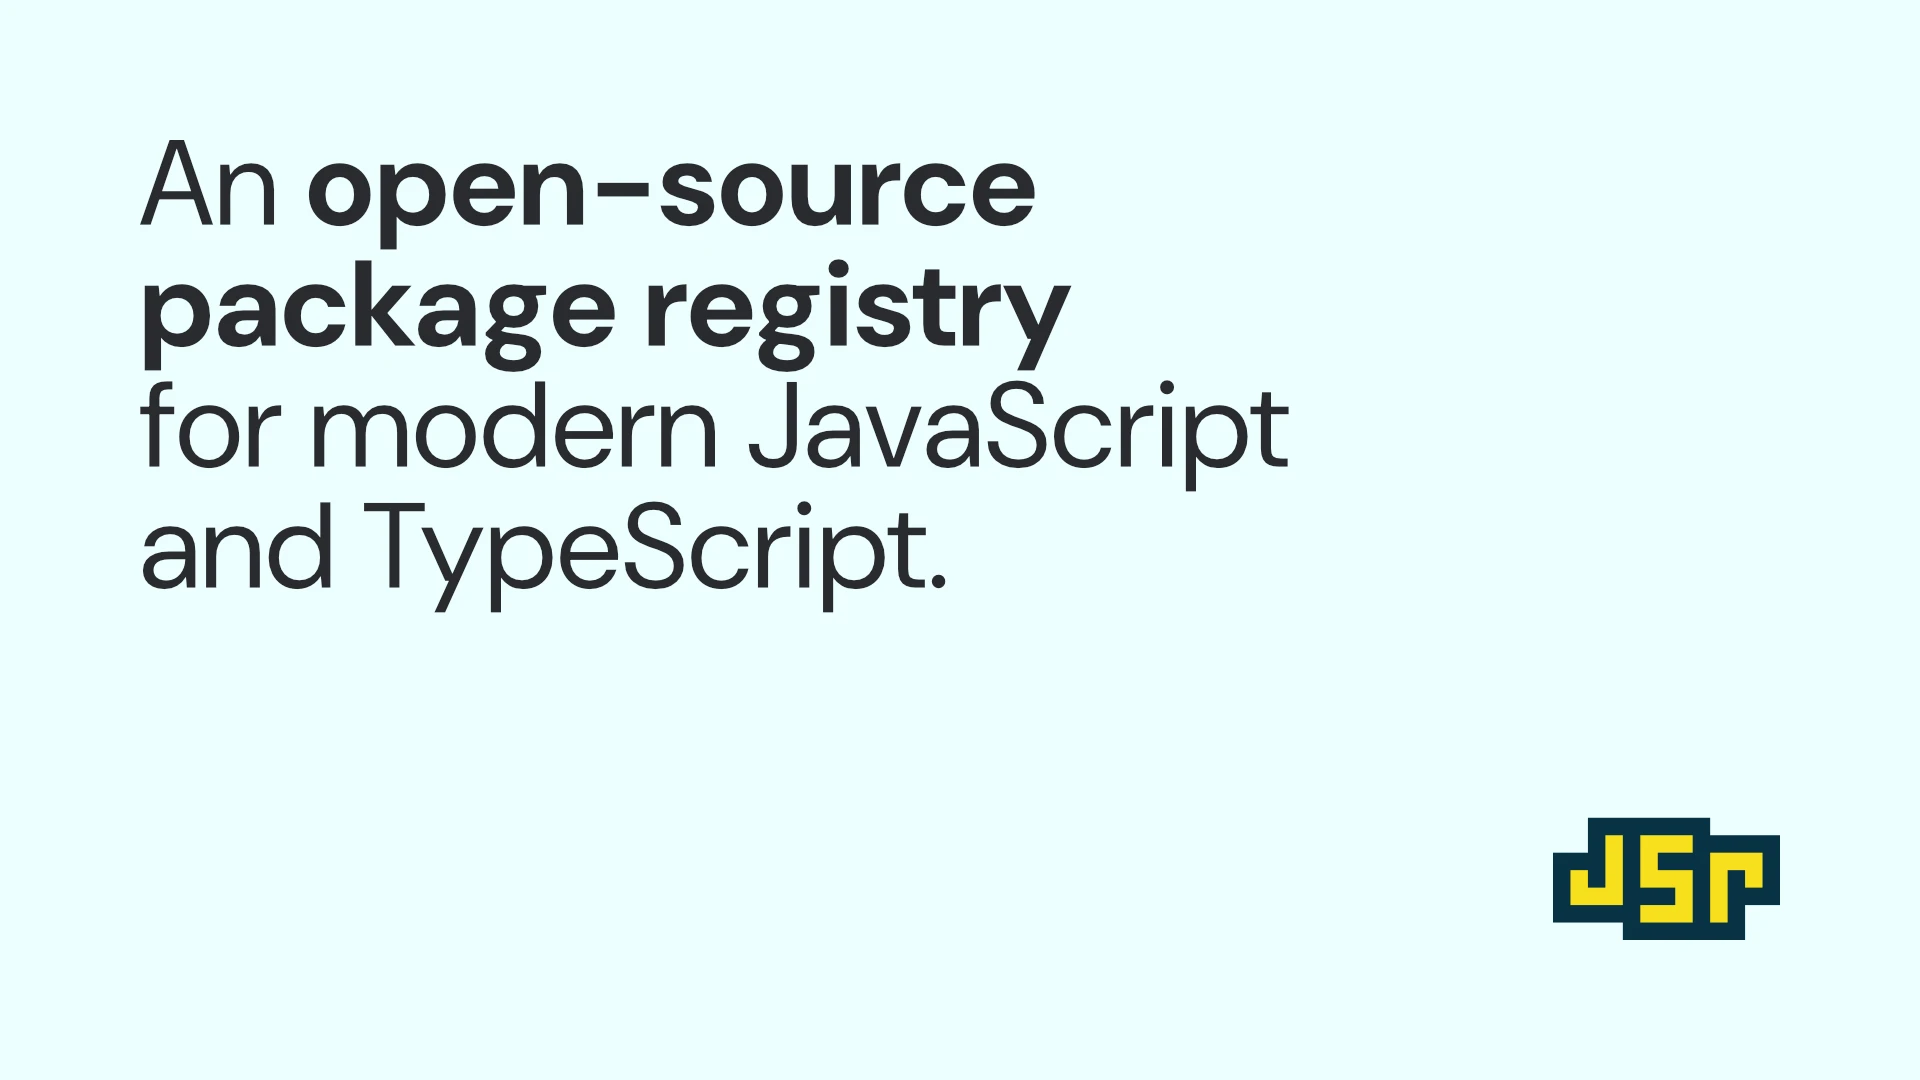
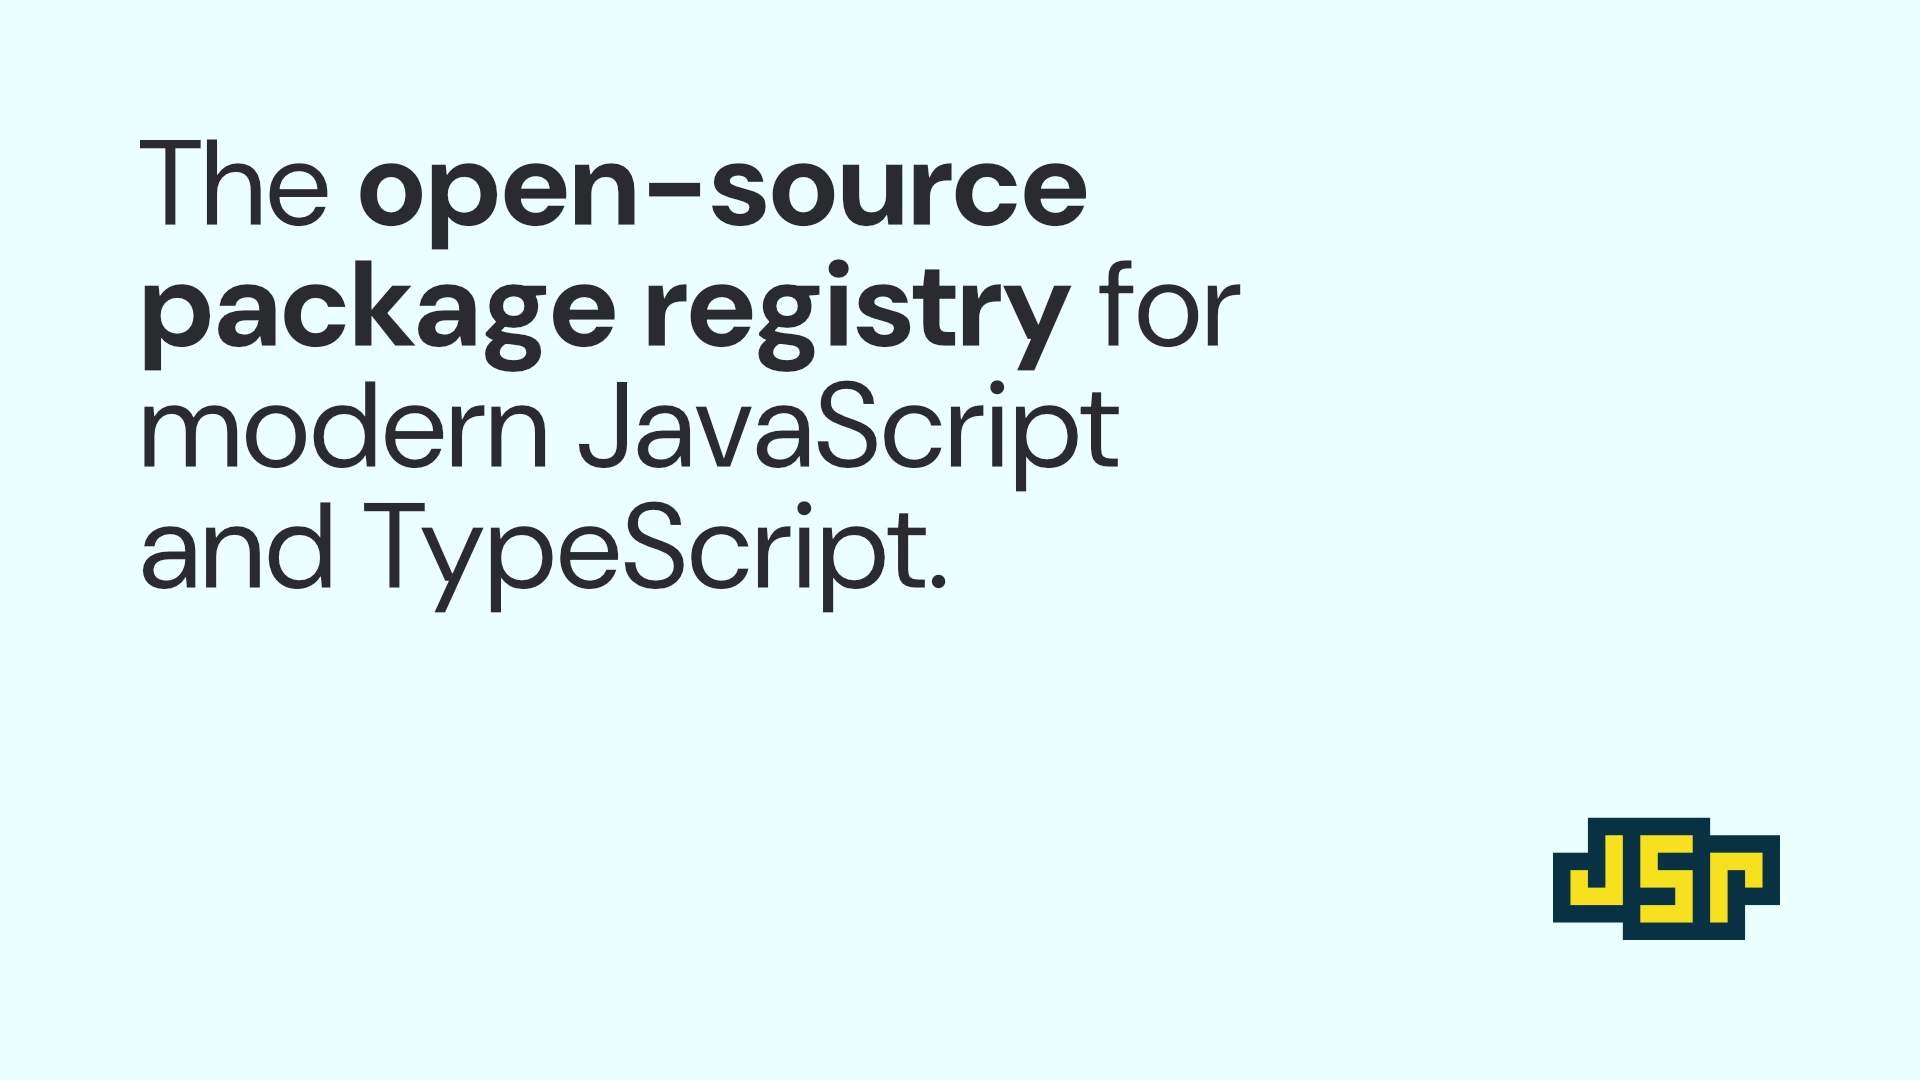
Multiple small items for launch

Changed region(s): [[0.0625, 0.3361, 0.6875, 0.4583], [0.0625, 0.1222, 0.5625, 0.2444], [0.5625, 0.2444, 0.6562, 0.3361]]

diff --git a/frontend/islands/new.tsx b/frontend/islands/new.tsx
@@ -20,10 +20,10 @@ interface IconColorProps {
 export function IconCircle({ done, children }: IconColorProps) {
   const color = useComputed(() => {
     if (done.value) return "bg-green-600 text-white";
-    return "bg-gray-300 text-black";
+    return "bg-jsr-gray-0 text-black";
   });
   return (
-    <div class={color + " hidden md:block rounded-full p-1.75 my-1.5"}>
+    <div class={color + " hidden md:block rounded-full p-1.75"}>
       {children}
     </div>
   );
@@ -54,7 +54,7 @@ export function ScopeSelect(
 
   if (scopes.value.length === 0) {
     return (
-      <div class="space-y-4 bg-gray-50 border-gray-100 p-4 rounded-xl">
+      <div class="space-y-4 bg-jsr-cyan-50 border-1.5 border-jsr-cyan-200 p-4 md:p-6 rounded-xl">
         <span class="text-gray-700">
           You are not a member of any scopes. Create a new scope to publish your
           package.
@@ -106,7 +106,7 @@ export function ScopeSelect(
   return (
     <>
       <select
-        class="w-full md:w-88 mt-4 block py-2 px-4 input-container input select"
+        class="w-full mt-4 block py-2 px-4 input-container input select"
         onChange={(e) => scope.value = e.currentTarget.value}
         value={scope}
       >
@@ -118,7 +118,7 @@ export function ScopeSelect(
       <p class="text-gray-500">
         or{" "}
         <button
-          class="inline text-cyan-700 hover:underline hover:text-blue-400"
+          class="inline link mt-2"
           onClick={() => {
             explicitCreateScope.value = true;
             scope.value = "";
@@ -173,7 +173,7 @@ function CreateScope(
   return (
     <>
       <form class="flex flex-wrap gap-4 items-center" onSubmit={onSubmit}>
-        <label class="flex items-center w-full md:w-88 input-container pl-4 py-[2px] pr-[2px]">
+        <label class="flex items-center w-full md:w-full input-container pl-4 py-[2px] pr-[2px]">
           <span>@</span>
           <input
             class="input py-1.5 pr-4 pl-[1px] flex-grow-1 rounded-md"
@@ -277,7 +277,7 @@ export function PackageName(
   return (
     <>
       <input
-        class="w-full md:w-88 block h-10 px-4 input-container input"
+        class="w-full md:w-full block h-10 px-4 input-container input"
         type="text"
         name="package"
         placeholder="bar"
@@ -331,14 +331,14 @@ export function CreatePackage({ scope, name, pkg, fromCli }: {
   ) return null;
 
   return (
-    <div class="max-w-2xl mt-12 bg-gray-50 border-2 rounded-lg p-4 overflow-x-hidden flex flex-wrap sm:flex-nowrap! justify-between items-center gap-8">
+    <div class="max-w-2xl mt-12 bg-jsr-cyan-50 border-1.5 border-jsr-cyan-200 rounded-lg p-4 md:p-6 overflow-x-hidden flex flex-wrap sm:flex-nowrap! justify-between items-center gap-8">
       {pkg.value === null
         ? (
           <>
             <div>
-              <p class="text-gray-500">
+              <p>
                 The package{" "}
-                <code class="bg-gray-200 text-gray-700 px-1  rounded-md inline-block">
+                <code class="text-jsr-cyan-800">
                   @{scope}/{name}
                 </code>{" "}
                 does not exist yet. Create it now to publish your package.

diff --git a/frontend/routes/new.tsx b/frontend/routes/new.tsx
@@ -41,22 +41,21 @@ export default function New(props: PageProps<Data, State>) {
           content="Create a package to publish on JSR."
         />
       </Head>
-      <div class="flex flex-col md:flex-row gap-12 lg:gap-36">
-        <div class="md:w-88 space-y-4 flex-shrink-0">
+      <div class="flex flex-col md:grid md:grid-cols-2 gap-12">
+        <div class="w-full space-y-4 flex-shrink-0">
           <h1 class="mb-8 font-bold text-3xl leading-none">
-            Publishing a package
+            Publish a package
           </h1>
           <p class="text-gray-900 max-w-screen-md">
-            Publish your package to the <b>JSR</b>{" "}
-            registry to share it with the world.
+            Publish your package to the JSR to share it with the world!
           </p>
           <p>
-            <b>JSR</b> natively supports <b>TypeScript</b>{" "}
-            packages. You do not need to compile your package before publishing.
+            <b>JSR natively supports TypeScript</b>{" "}
+            . You do not need to compile your package before publishing.
           </p>
           <p>
-            <b>JSR</b> packages can depend on other <b>JSR</b>{" "}
-            packages, as well as any package from <b>npm</b>.
+            JSR packages can depend on other JSR{" "}
+            packages, as well as any package from npm.
           </p>
         </div>
         <div class="space-y-8">
@@ -65,10 +64,10 @@ export default function New(props: PageProps<Data, State>) {
               <IconFolder class="h-5 w-5" />
             </IconCircle>
             <div class="w-full">
-              <p class="font-bold text-xl leading-none">Scope</p>
-              <p class="mt-1 mb-4 text-gray-500">
-                Choose which scope you want to publish your package to. Scopes
-                are namespaces for packages.
+              <h2 class="font-bold text-2xl leading-none">Scope</h2>
+              <p class="mt-2 mb-4 text-gray-500 text-base">
+                Choose which scope your package will be published to. Scopes are
+                namespaces for packages.
               </p>
               {props.state.user
                 ? (
@@ -100,8 +99,8 @@ export default function New(props: PageProps<Data, State>) {
               <IconPackage class="h-5 w-5" />
             </IconCircle>
             <div class="w-full">
-              <p class="font-bold text-xl leading-none">Package name</p>
-              <p class="mt-1 mb-4 text-gray-500">
+              <h2 class="font-bold text-2xl leading-none">Package name</h2>
+              <p class="mt-1 mb-4 text-gray-500 text-base">
                 The name of your package must be unique within the scope you
                 selected.
               </p>

diff --git a/frontend/routes/package/(_components)/PackageHeader.tsx b/frontend/routes/package/(_components)/PackageHeader.tsx
@@ -2,6 +2,7 @@
 import { Package, PackageVersionWithUser } from "../../../utils/api_types.ts";
 import { GitHub } from "../../../components/icons/GitHub.tsx";
 import { RuntimeCompatIndicator } from "../../../components/RuntimeCompatIndicator.tsx";
+import { getScoreBgColorClass } from "../../../utils/score_ring_color.ts";
 
 interface PackageHeaderProps {
   package: Package;
@@ -11,12 +12,6 @@ interface PackageHeaderProps {
 export function PackageHeader(
   { package: pkg, selectedVersion }: PackageHeaderProps,
 ) {
-  const scoreColorClass = pkg.score >= 90
-    ? "bg-green-500"
-    : pkg.score >= 60
-    ? "bg-yellow-500"
-    : "bg-red-500";
-
   return (
     <div class="space-y-2.5 mt-0 md:mt-4">
       <div class="flex flex-wrap items-center justify-between gap-2">
@@ -31,8 +26,11 @@ export function PackageHeader(
             </span>
             {selectedVersion &&
               (
-                <span class="text-lg md:text-xl font-bold">
-                  @{selectedVersion.version}
+                <span class="text-lg md:text-[0.75em] font-bold">
+                  <span class="relative text-[0.85em] -top-[0.175em] font-[800]">
+                    @
+                  </span>
+                  {selectedVersion.version}
                 </span>
               )}
           </h1>
@@ -57,7 +55,9 @@ export function PackageHeader(
           >
             <span class="max-sm:hidden">Score</span>
             <div
-              class={`flex w-full max-w-24 items-center justify-center aspect-square rounded-full p-1 ${scoreColorClass}`}
+              class={`flex w-full max-w-24 items-center justify-center aspect-square rounded-full p-1 ${
+                getScoreBgColorClass(pkg.score)
+              }`}
               style={`background-image: conic-gradient(transparent, transparent ${pkg.score}%, #e7e8e8 ${pkg.score}%)`}
             >
               <span class="rounded-full w-full h-full bg-white flex justify-center items-center text-center font-bold p-1 min-w-11">

diff --git a/frontend/routes/package/score.tsx b/frontend/routes/package/score.tsx
@@ -15,6 +15,7 @@ import { Head } from "$fresh/runtime.ts";
 import { Check } from "../../components/icons/Check.tsx";
 import { Cross } from "../../components/icons/Cross.tsx";
 import { ErrorIcon } from "../../components/icons/Error.tsx";
+import { getScoreBgColorClass } from "../../utils/score_ring_color.ts";
 
 interface Data {
   package: Package;
@@ -29,11 +30,6 @@ export default function Score(
 ) {
   const isStaff = state.user?.isStaff || false;
   const canEdit = data.member?.isAdmin || isStaff;
-  const scoreColorClass = data.package.score >= 90
-    ? "bg-green-500"
-    : data.package.score >= 60
-    ? "bg-yellow-500"
-    : "bg-red-500";
 
   return (
     <div class="mb-20">
@@ -71,7 +67,9 @@ export default function Score(
             @{data.package.scope}/{data.package.name}
           </div>
           <div
-            class={`flex w-full max-w-32 items-center justify-center aspect-square rounded-full p-1.5 ${scoreColorClass}`}
+            class={`flex w-full max-w-32 items-center justify-center aspect-square rounded-full p-1.5 ${
+              getScoreBgColorClass(data.package.score)
+            }`}
             style={`background-image: conic-gradient(transparent, transparent ${data.package.score}%, #e7e8e8 ${data.package.score}%)`}
           >
             <span class="rounded-full w-full h-full bg-white flex justify-center items-center text-center text-3xl font-bold">

diff --git a/frontend/components/PackageHit.tsx b/frontend/components/PackageHit.tsx
@@ -1,6 +1,7 @@
 // Copyright 2024 the JSR authors. All rights reserved. MIT license.
 import type { OramaPackageHit } from "../util.ts";
 import type { Package } from "../utils/api_types.ts";
+import { getScoreBgColorClass } from "../utils/score_ring_color.ts";
 import type { ListDisplayItem } from "./List.tsx";
 import { RuntimeCompatIndicator } from "./RuntimeCompatIndicator.tsx";
 
@@ -24,8 +25,15 @@ export function PackageHit(pkg: OramaPackageHit | Package): ListDisplayItem {
             hideUnknown
           />
 
-          <div class="rounded border-1.5 border-jsr-cyan-950 text-xs px-2 py-1 flex items-center justify-center">
-            {pkg.score}%
+          <div
+            class={`rounded-full aspect-square p-0.5 ${
+              getScoreBgColorClass(pkg.score)
+            }`}
+            style={`background-image: conic-gradient(transparent, transparent ${pkg.score}%, #e7e8e8 ${pkg.score}%)`}
+          >
+            <div class="rounded-full aspect-square bg-white text-xs flex items-center justify-center font-semibold min-w-6">
+              {pkg.score}
+            </div>
           </div>
         </div>
       </div>

diff --git a/frontend/islands/PackageSearch.tsx b/frontend/islands/PackageSearch.tsx
@@ -226,11 +226,15 @@ function SuggestionList(
   if (!showSuggestions.value) return null;
 
   return (
-    <div class="absolute bg-white w-full border sibling:bg-red-500 shadow z-40">
+    <div class="absolute bg-white w-full sibling:bg-red-500 border-1.5 border-jsr-cyan-950 rounded-lg z-40 overflow-hidden top-0.5">
       {suggestions.value === null
         ? <div class="bg-white text-gray-500 px-4">...</div>
         : suggestions.value?.length === 0
-        ? <div class="bg-white text-gray-500 italic px-4">No results</div>
+        ? (
+          <div class="bg-white text-gray-500 px-4 py-2">
+            No matching results to display
+          </div>
+        )
         : (
           <ul class="divide-y-1">
             {suggestions.value.map((pkg, i) => {

diff --git a/frontend/islands/HomepageHero.tsx b/frontend/islands/HomepageHero.tsx
@@ -162,7 +162,7 @@ export function HomepageHero(
               class="text-xl text-balance leading-tight sm:text-2xl md:text-3xl lg:text-4xl opsize-normal md:opsize-sm text-center -mt-6 max-w-[20em] font-light"
               style="text-shadow: 0 0 2em white, 0 0 1em white, 0 0 0.5em white, 0 0 0.25em white, 0 0 3em white, 0 0 0.5em white;"
             >
-              An <b class="font-semibold">open-source package registry</b>{" "}
+              The <b class="font-semibold">open-source package registry</b>{" "}
               for modern JavaScript and TypeScript
             </div>
           </h1>

diff --git a/frontend/static/styles.css b/frontend/static/styles.css
@@ -153,7 +153,7 @@
   }
 
   .search-input {
-    @apply input-container border-cyan-900;
+    @apply input-container border-jsr-cyan-950;
   }
 
   .select {
@@ -203,6 +203,19 @@ body .ddoc .usage nav label {
 
 body .ddoc > section > nav.py-4 {
   @apply pt-0 top-4;
+}
+
+/* These might seem redundant but Tailwind won't always load them in the compiled stylesheet unless they're explicitly included here. */
+.score-ring-red {
+  @apply bg-red-500;
+}
+
+.score-ring-yellow {
+  @apply bg-yellow-500;
+}
+
+.score-ring-green {
+  @apply bg-green-500;
 }
 
 @layer base {

diff --git a/frontend/components/GitHubRepoInput.tsx b/frontend/components/GitHubRepoInput.tsx
@@ -46,7 +46,7 @@ export function GitHubRepoInput(
   }
 
   return (
-    <div class="flex items-center w-full md:w-88 rounded-md text-gray-900 shadow-sm pl-3 py-[2px] pr-[2px] sm:text-sm sm:leading-6 bg-white input-container">
+    <div class="flex items-center w-full md:w-full rounded-md text-gray-900 shadow-sm pl-3 py-[2px] pr-[2px] sm:text-sm sm:leading-6 bg-white input-container">
       <span class="block">
         <GitHub class="h-5 w-5" />
       </span>

diff --git a/frontend/routes/@[scope]/~/settings.tsx b/frontend/routes/@[scope]/~/settings.tsx
@@ -201,7 +201,7 @@ function DeleteScope({ scope }: { scope: FullScope }) {
       </button>
       {!isEmpty && (
         <p class="mt-4 text-red-600">
-          This scope can not be deleted because it contains packages. Only empty
+          This scope cannot be deleted because it contains packages. Only empty
           scopes can be deleted.
         </p>
       )}

diff --git a/frontend/utils/score_ring_color.ts b/frontend/utils/score_ring_color.ts
@@ -1,0 +1,8 @@
+export const getScoreBgColorClass = (score: number): string => {
+  if (score >= 90) {
+    return "score-ring-green";
+  } else if (score >= 60) {
+    return "score-ring-yellow";
+  }
+  return "score-ring-red";
+};
